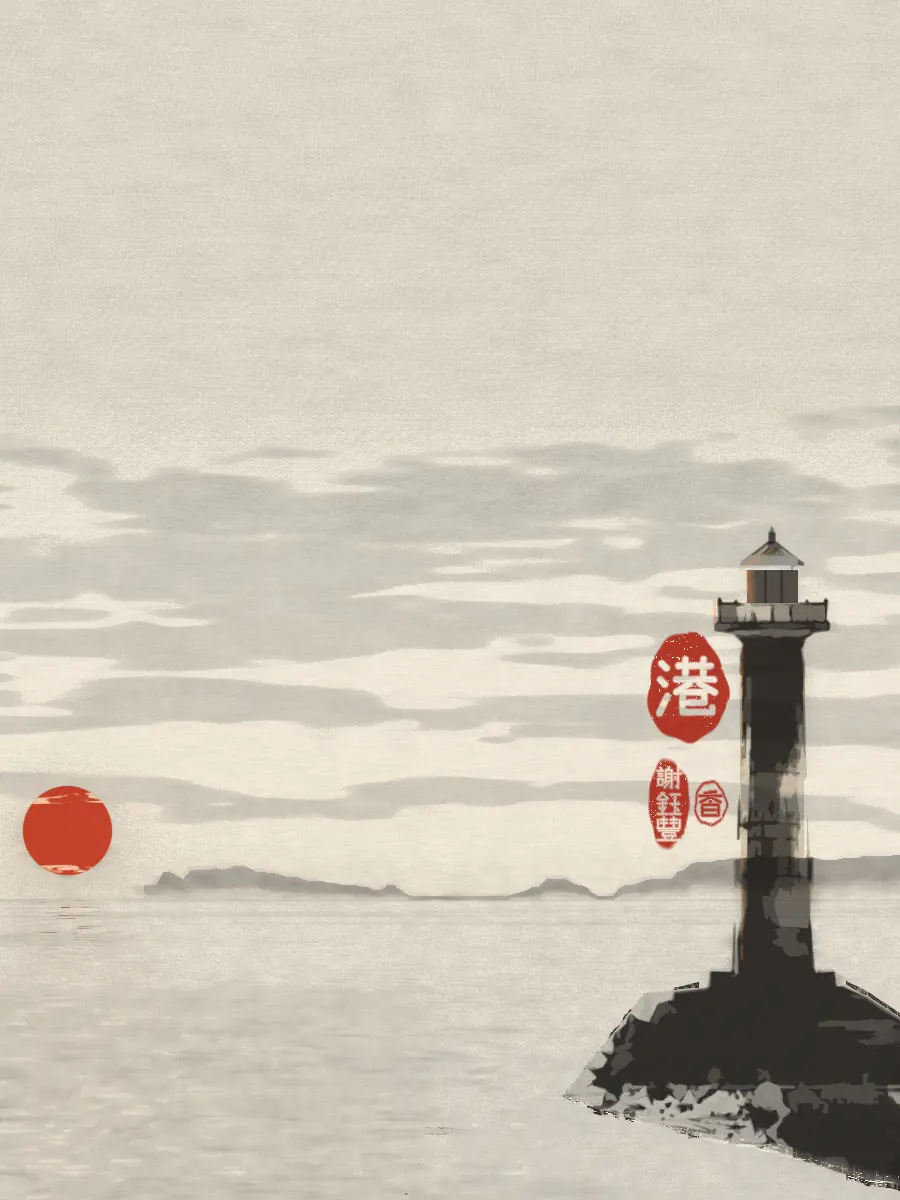
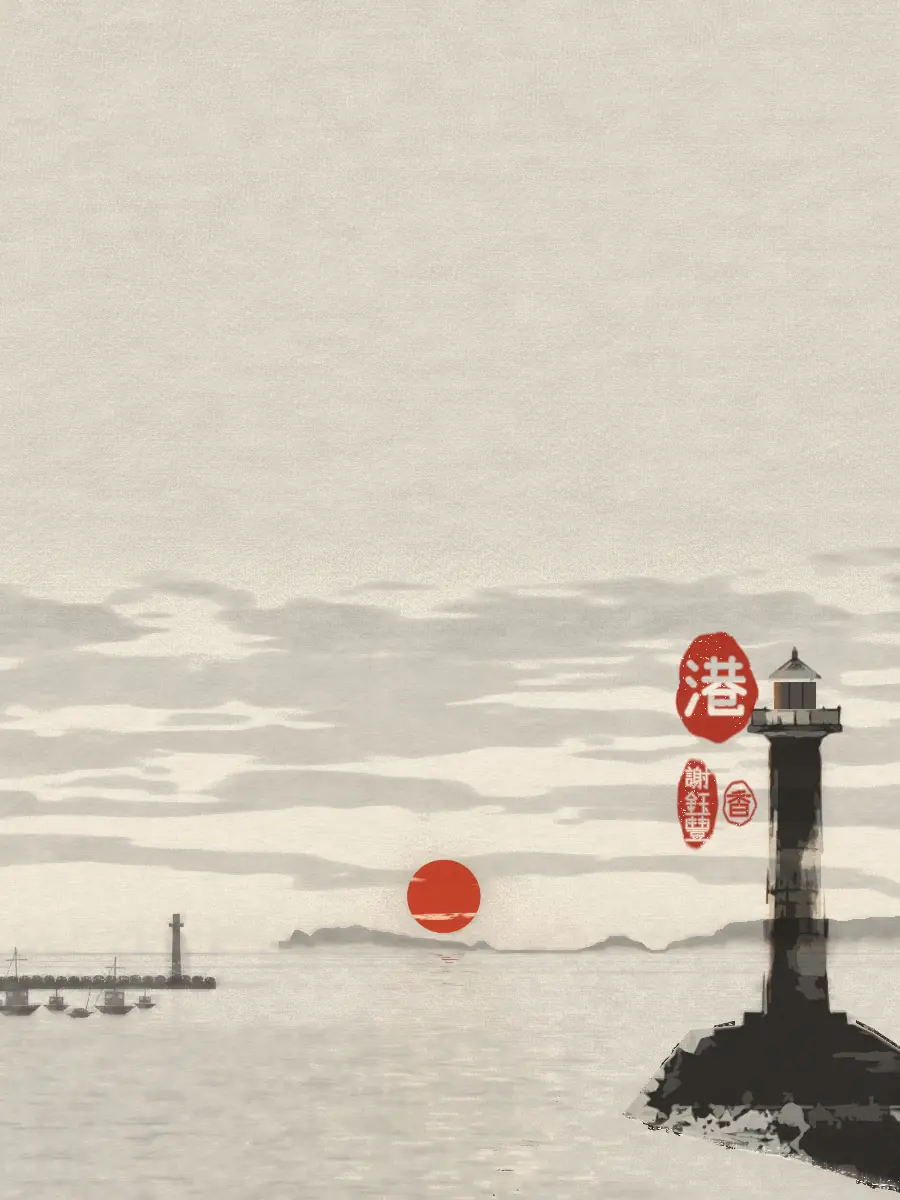
發布：墨景 03 更新（直式補左側港景與新封面）
Claude-Session: https://claude.ai/code/session_01VmVoAunAwoWo1nxic27BbQ

Changed region(s): [[0.0, 0.37, 1.0, 1.0], [0.6533, 0.37, 0.84, 0.4317], [0.2489, 0.4008, 0.3111, 0.4317]]

diff --git a/jieri/chunjie/index.html b/jieri/chunjie/index.html
@@ -19,7 +19,7 @@
 <meta property="og:image:width" content="1200">
 <meta property="og:image:height" content="630">
 <meta name="twitter:card" content="summary_large_image">
-<link rel="stylesheet" href="/assets/style.css?v=20261123a">
+<link rel="stylesheet" href="/assets/style.css?v=20261123b">
 </head>
 <body>
 <header class="top"><div class="wrap">
@@ -35,9 +35,9 @@
 
 <footer><div class="wrap" id="foot"><p><b style="color:var(--ink-2)">謝鈺豐香店</b>・新北市金山區中正路5號・電話 02-2498-7881・每日 07:00–20:00・付款：現金、台灣Pay</p><p>金紙不在多，心意最重要。</p><p>本站內容整理自民俗資料與店內經驗，僅供參考；各地習俗不同，請以在地慣例為準，也歡迎到店詢問。標「常見」的是一般常見做法，各地不一。</p><details><summary>參考來源</summary><ol><li><a href="https://dict.th.gov.tw/detailPage.aspx?Ca=291&amp;ID=1366" target="_blank" rel="noopener">臺灣民俗文物辭典：大壽金</a></li><li><a href="https://dict.th.gov.tw/detailPage.aspx?Ca=291&amp;ID=1361" target="_blank" rel="noopener">臺灣民俗文物辭典：天公金</a></li><li><a href="https://cmsdb.culture.tw/object/FEBF16D9-238F-44F6-8861-35F2FD40B2BE" target="_blank" rel="noopener">文化部 國家文化記憶庫：刈金與四方金</a></li><li><a href="https://sutian.moe.edu.tw/und-hani/su/8205/" target="_blank" rel="noopener">教育部臺灣台語常用詞辭典</a></li><li><a href="https://mso.gov.taipei/cp.aspx?n=B166D6A50A6D9E79" target="_blank" rel="noopener">臺北市殯葬管理處：祭祀供品釋疑</a></li><li><a href="https://www.tfunscroll.ntpc.gov.tw/TombSweepingFestival/ContentView?alias=Cht_O02&amp;id=802" target="_blank" rel="noopener">新北市清明服務網</a></li><li><a href="https://ianthro.ioe.sinica.edu.tw/wp-content/uploads/2018/05/etf025-001.pdf" target="_blank" rel="noopener">中研院民族所：金錢在華人文化與宗教中的觀念與儀式初探</a></li><li><a href="https://folk.tw/practices/ruocuo/" target="_blank" rel="noopener">神酷：入厝</a></li><li><a href="https://folk.tw/practices/sangli/" target="_blank" rel="noopener">神酷：傳統喪禮</a></li><li><a href="https://www.nownews.com/news/5627473" target="_blank" rel="noopener">NOWnews 保庇網：銀紙</a></li><li><a href="https://www.nownews.com/news/6362410" target="_blank" rel="noopener">NOWnews：初五迎財神拜法</a></li><li><a href="https://www.nownews.com/news/6814884" target="_blank" rel="noopener">NOWnews：拜媽祖供品</a></li><li><a href="https://supertaste.tvbs.com.tw/hot/353166" target="_blank" rel="noopener">TVBS：開工拜拜準備</a></li><li><a href="https://newtalk.tw/news/view/2022-05-16/755679" target="_blank" rel="noopener">新頭殼：金包里二媽回野柳媽祖洞</a></li><li><a href="https://udn.com/news/story/7268/9559983" target="_blank" rel="noopener">聯合新聞網：神農大帝聖誕</a></li><li><a href="https://tw.news.yahoo.com/tag/水仙尊王" target="_blank" rel="noopener">Yahoo 新聞：水仙尊王</a></li><li><a href="https://health.tvbs.com.tw/life/352227" target="_blank" rel="noopener">TVBS：拜土地公供品與金紙</a></li><li><a href="https://shopee.tw/blog/land-worship/" target="_blank" rel="noopener">蝦皮生活誌：拜土地公三色金</a></li><li><a href="https://travel.yam.com/article/136653" target="_blank" rel="noopener">蕃薯藤旅遊：拜財神供品</a></li><li><a href="https://health.tvbs.com.tw/nutrition/360367" target="_blank" rel="noopener">TVBS：財神廟參拜</a></li><li><a href="https://www.nownews.com/news/6786362" target="_blank" rel="noopener">NOWnews：拜月老步驟</a></li><li><a href="https://www.thenewslens.com/article/190536" target="_blank" rel="noopener">關鍵評論網：七夕拜月老供品</a></li><li><a href="https://www.thenewslens.com/article/147154" target="_blank" rel="noopener">關鍵評論網：紙錢整理</a></li></ol></details></div></footer>
 
-<script src="/assets/data.js?v=20261123a"></script>
-<script src="/assets/lunar.js?v=20261123a"></script>
-<script src="/assets/common.js?v=20261123a"></script>
-<script src="/assets/fest.js?v=20261123a"></script>
+<script src="/assets/data.js?v=20261123b"></script>
+<script src="/assets/lunar.js?v=20261123b"></script>
+<script src="/assets/common.js?v=20261123b"></script>
+<script src="/assets/fest.js?v=20261123b"></script>
 
 </body></html>

diff --git a/jieri/chuxi/index.html b/jieri/chuxi/index.html
@@ -19,7 +19,7 @@
 <meta property="og:image:width" content="1200">
 <meta property="og:image:height" content="630">
 <meta name="twitter:card" content="summary_large_image">
-<link rel="stylesheet" href="/assets/style.css?v=20261123a">
+<link rel="stylesheet" href="/assets/style.css?v=20261123b">
 </head>
 <body>
 <header class="top"><div class="wrap">
@@ -35,9 +35,9 @@
 
 <footer><div class="wrap" id="foot"><p><b style="color:var(--ink-2)">謝鈺豐香店</b>・新北市金山區中正路5號・電話 02-2498-7881・每日 07:00–20:00・付款：現金、台灣Pay</p><p>金紙不在多，心意最重要。</p><p>本站內容整理自民俗資料與店內經驗，僅供參考；各地習俗不同，請以在地慣例為準，也歡迎到店詢問。標「常見」的是一般常見做法，各地不一。</p><details><summary>參考來源</summary><ol><li><a href="https://dict.th.gov.tw/detailPage.aspx?Ca=291&amp;ID=1366" target="_blank" rel="noopener">臺灣民俗文物辭典：大壽金</a></li><li><a href="https://dict.th.gov.tw/detailPage.aspx?Ca=291&amp;ID=1361" target="_blank" rel="noopener">臺灣民俗文物辭典：天公金</a></li><li><a href="https://cmsdb.culture.tw/object/FEBF16D9-238F-44F6-8861-35F2FD40B2BE" target="_blank" rel="noopener">文化部 國家文化記憶庫：刈金與四方金</a></li><li><a href="https://sutian.moe.edu.tw/und-hani/su/8205/" target="_blank" rel="noopener">教育部臺灣台語常用詞辭典</a></li><li><a href="https://mso.gov.taipei/cp.aspx?n=B166D6A50A6D9E79" target="_blank" rel="noopener">臺北市殯葬管理處：祭祀供品釋疑</a></li><li><a href="https://www.tfunscroll.ntpc.gov.tw/TombSweepingFestival/ContentView?alias=Cht_O02&amp;id=802" target="_blank" rel="noopener">新北市清明服務網</a></li><li><a href="https://ianthro.ioe.sinica.edu.tw/wp-content/uploads/2018/05/etf025-001.pdf" target="_blank" rel="noopener">中研院民族所：金錢在華人文化與宗教中的觀念與儀式初探</a></li><li><a href="https://folk.tw/practices/ruocuo/" target="_blank" rel="noopener">神酷：入厝</a></li><li><a href="https://folk.tw/practices/sangli/" target="_blank" rel="noopener">神酷：傳統喪禮</a></li><li><a href="https://www.nownews.com/news/5627473" target="_blank" rel="noopener">NOWnews 保庇網：銀紙</a></li><li><a href="https://www.nownews.com/news/6362410" target="_blank" rel="noopener">NOWnews：初五迎財神拜法</a></li><li><a href="https://www.nownews.com/news/6814884" target="_blank" rel="noopener">NOWnews：拜媽祖供品</a></li><li><a href="https://supertaste.tvbs.com.tw/hot/353166" target="_blank" rel="noopener">TVBS：開工拜拜準備</a></li><li><a href="https://newtalk.tw/news/view/2022-05-16/755679" target="_blank" rel="noopener">新頭殼：金包里二媽回野柳媽祖洞</a></li><li><a href="https://udn.com/news/story/7268/9559983" target="_blank" rel="noopener">聯合新聞網：神農大帝聖誕</a></li><li><a href="https://tw.news.yahoo.com/tag/水仙尊王" target="_blank" rel="noopener">Yahoo 新聞：水仙尊王</a></li><li><a href="https://health.tvbs.com.tw/life/352227" target="_blank" rel="noopener">TVBS：拜土地公供品與金紙</a></li><li><a href="https://shopee.tw/blog/land-worship/" target="_blank" rel="noopener">蝦皮生活誌：拜土地公三色金</a></li><li><a href="https://travel.yam.com/article/136653" target="_blank" rel="noopener">蕃薯藤旅遊：拜財神供品</a></li><li><a href="https://health.tvbs.com.tw/nutrition/360367" target="_blank" rel="noopener">TVBS：財神廟參拜</a></li><li><a href="https://www.nownews.com/news/6786362" target="_blank" rel="noopener">NOWnews：拜月老步驟</a></li><li><a href="https://www.thenewslens.com/article/190536" target="_blank" rel="noopener">關鍵評論網：七夕拜月老供品</a></li><li><a href="https://www.thenewslens.com/article/147154" target="_blank" rel="noopener">關鍵評論網：紙錢整理</a></li></ol></details></div></footer>
 
-<script src="/assets/data.js?v=20261123a"></script>
-<script src="/assets/lunar.js?v=20261123a"></script>
-<script src="/assets/common.js?v=20261123a"></script>
-<script src="/assets/fest.js?v=20261123a"></script>
+<script src="/assets/data.js?v=20261123b"></script>
+<script src="/assets/lunar.js?v=20261123b"></script>
+<script src="/assets/common.js?v=20261123b"></script>
+<script src="/assets/fest.js?v=20261123b"></script>
 
 </body></html>

diff --git a/jieri/dongzhi/index.html b/jieri/dongzhi/index.html
@@ -19,7 +19,7 @@
 <meta property="og:image:width" content="1200">
 <meta property="og:image:height" content="630">
 <meta name="twitter:card" content="summary_large_image">
-<link rel="stylesheet" href="/assets/style.css?v=20261123a">
+<link rel="stylesheet" href="/assets/style.css?v=20261123b">
 </head>
 <body>
 <header class="top"><div class="wrap">
@@ -35,9 +35,9 @@
 
 <footer><div class="wrap" id="foot"><p><b style="color:var(--ink-2)">謝鈺豐香店</b>・新北市金山區中正路5號・電話 02-2498-7881・每日 07:00–20:00・付款：現金、台灣Pay</p><p>金紙不在多，心意最重要。</p><p>本站內容整理自民俗資料與店內經驗，僅供參考；各地習俗不同，請以在地慣例為準，也歡迎到店詢問。標「常見」的是一般常見做法，各地不一。</p><details><summary>參考來源</summary><ol><li><a href="https://dict.th.gov.tw/detailPage.aspx?Ca=291&amp;ID=1366" target="_blank" rel="noopener">臺灣民俗文物辭典：大壽金</a></li><li><a href="https://dict.th.gov.tw/detailPage.aspx?Ca=291&amp;ID=1361" target="_blank" rel="noopener">臺灣民俗文物辭典：天公金</a></li><li><a href="https://cmsdb.culture.tw/object/FEBF16D9-238F-44F6-8861-35F2FD40B2BE" target="_blank" rel="noopener">文化部 國家文化記憶庫：刈金與四方金</a></li><li><a href="https://sutian.moe.edu.tw/und-hani/su/8205/" target="_blank" rel="noopener">教育部臺灣台語常用詞辭典</a></li><li><a href="https://mso.gov.taipei/cp.aspx?n=B166D6A50A6D9E79" target="_blank" rel="noopener">臺北市殯葬管理處：祭祀供品釋疑</a></li><li><a href="https://www.tfunscroll.ntpc.gov.tw/TombSweepingFestival/ContentView?alias=Cht_O02&amp;id=802" target="_blank" rel="noopener">新北市清明服務網</a></li><li><a href="https://ianthro.ioe.sinica.edu.tw/wp-content/uploads/2018/05/etf025-001.pdf" target="_blank" rel="noopener">中研院民族所：金錢在華人文化與宗教中的觀念與儀式初探</a></li><li><a href="https://folk.tw/practices/ruocuo/" target="_blank" rel="noopener">神酷：入厝</a></li><li><a href="https://folk.tw/practices/sangli/" target="_blank" rel="noopener">神酷：傳統喪禮</a></li><li><a href="https://www.nownews.com/news/5627473" target="_blank" rel="noopener">NOWnews 保庇網：銀紙</a></li><li><a href="https://www.nownews.com/news/6362410" target="_blank" rel="noopener">NOWnews：初五迎財神拜法</a></li><li><a href="https://www.nownews.com/news/6814884" target="_blank" rel="noopener">NOWnews：拜媽祖供品</a></li><li><a href="https://supertaste.tvbs.com.tw/hot/353166" target="_blank" rel="noopener">TVBS：開工拜拜準備</a></li><li><a href="https://newtalk.tw/news/view/2022-05-16/755679" target="_blank" rel="noopener">新頭殼：金包里二媽回野柳媽祖洞</a></li><li><a href="https://udn.com/news/story/7268/9559983" target="_blank" rel="noopener">聯合新聞網：神農大帝聖誕</a></li><li><a href="https://tw.news.yahoo.com/tag/水仙尊王" target="_blank" rel="noopener">Yahoo 新聞：水仙尊王</a></li><li><a href="https://health.tvbs.com.tw/life/352227" target="_blank" rel="noopener">TVBS：拜土地公供品與金紙</a></li><li><a href="https://shopee.tw/blog/land-worship/" target="_blank" rel="noopener">蝦皮生活誌：拜土地公三色金</a></li><li><a href="https://travel.yam.com/article/136653" target="_blank" rel="noopener">蕃薯藤旅遊：拜財神供品</a></li><li><a href="https://health.tvbs.com.tw/nutrition/360367" target="_blank" rel="noopener">TVBS：財神廟參拜</a></li><li><a href="https://www.nownews.com/news/6786362" target="_blank" rel="noopener">NOWnews：拜月老步驟</a></li><li><a href="https://www.thenewslens.com/article/190536" target="_blank" rel="noopener">關鍵評論網：七夕拜月老供品</a></li><li><a href="https://www.thenewslens.com/article/147154" target="_blank" rel="noopener">關鍵評論網：紙錢整理</a></li></ol></details></div></footer>
 
-<script src="/assets/data.js?v=20261123a"></script>
-<script src="/assets/lunar.js?v=20261123a"></script>
-<script src="/assets/common.js?v=20261123a"></script>
-<script src="/assets/fest.js?v=20261123a"></script>
+<script src="/assets/data.js?v=20261123b"></script>
+<script src="/assets/lunar.js?v=20261123b"></script>
+<script src="/assets/common.js?v=20261123b"></script>
+<script src="/assets/fest.js?v=20261123b"></script>
 
 </body></html>

diff --git a/jieri/duanwu/index.html b/jieri/duanwu/index.html
@@ -19,7 +19,7 @@
 <meta property="og:image:width" content="1200">
 <meta property="og:image:height" content="630">
 <meta name="twitter:card" content="summary_large_image">
-<link rel="stylesheet" href="/assets/style.css?v=20261123a">
+<link rel="stylesheet" href="/assets/style.css?v=20261123b">
 </head>
 <body>
 <header class="top"><div class="wrap">
@@ -35,9 +35,9 @@
 
 <footer><div class="wrap" id="foot"><p><b style="color:var(--ink-2)">謝鈺豐香店</b>・新北市金山區中正路5號・電話 02-2498-7881・每日 07:00–20:00・付款：現金、台灣Pay</p><p>金紙不在多，心意最重要。</p><p>本站內容整理自民俗資料與店內經驗，僅供參考；各地習俗不同，請以在地慣例為準，也歡迎到店詢問。標「常見」的是一般常見做法，各地不一。</p><details><summary>參考來源</summary><ol><li><a href="https://dict.th.gov.tw/detailPage.aspx?Ca=291&amp;ID=1366" target="_blank" rel="noopener">臺灣民俗文物辭典：大壽金</a></li><li><a href="https://dict.th.gov.tw/detailPage.aspx?Ca=291&amp;ID=1361" target="_blank" rel="noopener">臺灣民俗文物辭典：天公金</a></li><li><a href="https://cmsdb.culture.tw/object/FEBF16D9-238F-44F6-8861-35F2FD40B2BE" target="_blank" rel="noopener">文化部 國家文化記憶庫：刈金與四方金</a></li><li><a href="https://sutian.moe.edu.tw/und-hani/su/8205/" target="_blank" rel="noopener">教育部臺灣台語常用詞辭典</a></li><li><a href="https://mso.gov.taipei/cp.aspx?n=B166D6A50A6D9E79" target="_blank" rel="noopener">臺北市殯葬管理處：祭祀供品釋疑</a></li><li><a href="https://www.tfunscroll.ntpc.gov.tw/TombSweepingFestival/ContentView?alias=Cht_O02&amp;id=802" target="_blank" rel="noopener">新北市清明服務網</a></li><li><a href="https://ianthro.ioe.sinica.edu.tw/wp-content/uploads/2018/05/etf025-001.pdf" target="_blank" rel="noopener">中研院民族所：金錢在華人文化與宗教中的觀念與儀式初探</a></li><li><a href="https://folk.tw/practices/ruocuo/" target="_blank" rel="noopener">神酷：入厝</a></li><li><a href="https://folk.tw/practices/sangli/" target="_blank" rel="noopener">神酷：傳統喪禮</a></li><li><a href="https://www.nownews.com/news/5627473" target="_blank" rel="noopener">NOWnews 保庇網：銀紙</a></li><li><a href="https://www.nownews.com/news/6362410" target="_blank" rel="noopener">NOWnews：初五迎財神拜法</a></li><li><a href="https://www.nownews.com/news/6814884" target="_blank" rel="noopener">NOWnews：拜媽祖供品</a></li><li><a href="https://supertaste.tvbs.com.tw/hot/353166" target="_blank" rel="noopener">TVBS：開工拜拜準備</a></li><li><a href="https://newtalk.tw/news/view/2022-05-16/755679" target="_blank" rel="noopener">新頭殼：金包里二媽回野柳媽祖洞</a></li><li><a href="https://udn.com/news/story/7268/9559983" target="_blank" rel="noopener">聯合新聞網：神農大帝聖誕</a></li><li><a href="https://tw.news.yahoo.com/tag/水仙尊王" target="_blank" rel="noopener">Yahoo 新聞：水仙尊王</a></li><li><a href="https://health.tvbs.com.tw/life/352227" target="_blank" rel="noopener">TVBS：拜土地公供品與金紙</a></li><li><a href="https://shopee.tw/blog/land-worship/" target="_blank" rel="noopener">蝦皮生活誌：拜土地公三色金</a></li><li><a href="https://travel.yam.com/article/136653" target="_blank" rel="noopener">蕃薯藤旅遊：拜財神供品</a></li><li><a href="https://health.tvbs.com.tw/nutrition/360367" target="_blank" rel="noopener">TVBS：財神廟參拜</a></li><li><a href="https://www.nownews.com/news/6786362" target="_blank" rel="noopener">NOWnews：拜月老步驟</a></li><li><a href="https://www.thenewslens.com/article/190536" target="_blank" rel="noopener">關鍵評論網：七夕拜月老供品</a></li><li><a href="https://www.thenewslens.com/article/147154" target="_blank" rel="noopener">關鍵評論網：紙錢整理</a></li></ol></details></div></footer>
 
-<script src="/assets/data.js?v=20261123a"></script>
-<script src="/assets/lunar.js?v=20261123a"></script>
-<script src="/assets/common.js?v=20261123a"></script>
-<script src="/assets/fest.js?v=20261123a"></script>
+<script src="/assets/data.js?v=20261123b"></script>
+<script src="/assets/lunar.js?v=20261123b"></script>
+<script src="/assets/common.js?v=20261123b"></script>
+<script src="/assets/fest.js?v=20261123b"></script>
 
 </body></html>

diff --git a/jieri/qingming/index.html b/jieri/qingming/index.html
@@ -19,7 +19,7 @@
 <meta property="og:image:width" content="1200">
 <meta property="og:image:height" content="630">
 <meta name="twitter:card" content="summary_large_image">
-<link rel="stylesheet" href="/assets/style.css?v=20261123a">
+<link rel="stylesheet" href="/assets/style.css?v=20261123b">
 </head>
 <body>
 <header class="top"><div class="wrap">
@@ -35,9 +35,9 @@
 
 <footer><div class="wrap" id="foot"><p><b style="color:var(--ink-2)">謝鈺豐香店</b>・新北市金山區中正路5號・電話 02-2498-7881・每日 07:00–20:00・付款：現金、台灣Pay</p><p>金紙不在多，心意最重要。</p><p>本站內容整理自民俗資料與店內經驗，僅供參考；各地習俗不同，請以在地慣例為準，也歡迎到店詢問。標「常見」的是一般常見做法，各地不一。</p><details><summary>參考來源</summary><ol><li><a href="https://dict.th.gov.tw/detailPage.aspx?Ca=291&amp;ID=1366" target="_blank" rel="noopener">臺灣民俗文物辭典：大壽金</a></li><li><a href="https://dict.th.gov.tw/detailPage.aspx?Ca=291&amp;ID=1361" target="_blank" rel="noopener">臺灣民俗文物辭典：天公金</a></li><li><a href="https://cmsdb.culture.tw/object/FEBF16D9-238F-44F6-8861-35F2FD40B2BE" target="_blank" rel="noopener">文化部 國家文化記憶庫：刈金與四方金</a></li><li><a href="https://sutian.moe.edu.tw/und-hani/su/8205/" target="_blank" rel="noopener">教育部臺灣台語常用詞辭典</a></li><li><a href="https://mso.gov.taipei/cp.aspx?n=B166D6A50A6D9E79" target="_blank" rel="noopener">臺北市殯葬管理處：祭祀供品釋疑</a></li><li><a href="https://www.tfunscroll.ntpc.gov.tw/TombSweepingFestival/ContentView?alias=Cht_O02&amp;id=802" target="_blank" rel="noopener">新北市清明服務網</a></li><li><a href="https://ianthro.ioe.sinica.edu.tw/wp-content/uploads/2018/05/etf025-001.pdf" target="_blank" rel="noopener">中研院民族所：金錢在華人文化與宗教中的觀念與儀式初探</a></li><li><a href="https://folk.tw/practices/ruocuo/" target="_blank" rel="noopener">神酷：入厝</a></li><li><a href="https://folk.tw/practices/sangli/" target="_blank" rel="noopener">神酷：傳統喪禮</a></li><li><a href="https://www.nownews.com/news/5627473" target="_blank" rel="noopener">NOWnews 保庇網：銀紙</a></li><li><a href="https://www.nownews.com/news/6362410" target="_blank" rel="noopener">NOWnews：初五迎財神拜法</a></li><li><a href="https://www.nownews.com/news/6814884" target="_blank" rel="noopener">NOWnews：拜媽祖供品</a></li><li><a href="https://supertaste.tvbs.com.tw/hot/353166" target="_blank" rel="noopener">TVBS：開工拜拜準備</a></li><li><a href="https://newtalk.tw/news/view/2022-05-16/755679" target="_blank" rel="noopener">新頭殼：金包里二媽回野柳媽祖洞</a></li><li><a href="https://udn.com/news/story/7268/9559983" target="_blank" rel="noopener">聯合新聞網：神農大帝聖誕</a></li><li><a href="https://tw.news.yahoo.com/tag/水仙尊王" target="_blank" rel="noopener">Yahoo 新聞：水仙尊王</a></li><li><a href="https://health.tvbs.com.tw/life/352227" target="_blank" rel="noopener">TVBS：拜土地公供品與金紙</a></li><li><a href="https://shopee.tw/blog/land-worship/" target="_blank" rel="noopener">蝦皮生活誌：拜土地公三色金</a></li><li><a href="https://travel.yam.com/article/136653" target="_blank" rel="noopener">蕃薯藤旅遊：拜財神供品</a></li><li><a href="https://health.tvbs.com.tw/nutrition/360367" target="_blank" rel="noopener">TVBS：財神廟參拜</a></li><li><a href="https://www.nownews.com/news/6786362" target="_blank" rel="noopener">NOWnews：拜月老步驟</a></li><li><a href="https://www.thenewslens.com/article/190536" target="_blank" rel="noopener">關鍵評論網：七夕拜月老供品</a></li><li><a href="https://www.thenewslens.com/article/147154" target="_blank" rel="noopener">關鍵評論網：紙錢整理</a></li></ol></details></div></footer>
 
-<script src="/assets/data.js?v=20261123a"></script>
-<script src="/assets/lunar.js?v=20261123a"></script>
-<script src="/assets/common.js?v=20261123a"></script>
-<script src="/assets/fest.js?v=20261123a"></script>
+<script src="/assets/data.js?v=20261123b"></script>
+<script src="/assets/lunar.js?v=20261123b"></script>
+<script src="/assets/common.js?v=20261123b"></script>
+<script src="/assets/fest.js?v=20261123b"></script>
 
 </body></html>

diff --git a/jieri/qixi/index.html b/jieri/qixi/index.html
@@ -19,7 +19,7 @@
 <meta property="og:image:width" content="1200">
 <meta property="og:image:height" content="630">
 <meta name="twitter:card" content="summary_large_image">
-<link rel="stylesheet" href="/assets/style.css?v=20261123a">
+<link rel="stylesheet" href="/assets/style.css?v=20261123b">
 </head>
 <body>
 <header class="top"><div class="wrap">
@@ -35,9 +35,9 @@
 
 <footer><div class="wrap" id="foot"><p><b style="color:var(--ink-2)">謝鈺豐香店</b>・新北市金山區中正路5號・電話 02-2498-7881・每日 07:00–20:00・付款：現金、台灣Pay</p><p>金紙不在多，心意最重要。</p><p>本站內容整理自民俗資料與店內經驗，僅供參考；各地習俗不同，請以在地慣例為準，也歡迎到店詢問。標「常見」的是一般常見做法，各地不一。</p><details><summary>參考來源</summary><ol><li><a href="https://dict.th.gov.tw/detailPage.aspx?Ca=291&amp;ID=1366" target="_blank" rel="noopener">臺灣民俗文物辭典：大壽金</a></li><li><a href="https://dict.th.gov.tw/detailPage.aspx?Ca=291&amp;ID=1361" target="_blank" rel="noopener">臺灣民俗文物辭典：天公金</a></li><li><a href="https://cmsdb.culture.tw/object/FEBF16D9-238F-44F6-8861-35F2FD40B2BE" target="_blank" rel="noopener">文化部 國家文化記憶庫：刈金與四方金</a></li><li><a href="https://sutian.moe.edu.tw/und-hani/su/8205/" target="_blank" rel="noopener">教育部臺灣台語常用詞辭典</a></li><li><a href="https://mso.gov.taipei/cp.aspx?n=B166D6A50A6D9E79" target="_blank" rel="noopener">臺北市殯葬管理處：祭祀供品釋疑</a></li><li><a href="https://www.tfunscroll.ntpc.gov.tw/TombSweepingFestival/ContentView?alias=Cht_O02&amp;id=802" target="_blank" rel="noopener">新北市清明服務網</a></li><li><a href="https://ianthro.ioe.sinica.edu.tw/wp-content/uploads/2018/05/etf025-001.pdf" target="_blank" rel="noopener">中研院民族所：金錢在華人文化與宗教中的觀念與儀式初探</a></li><li><a href="https://folk.tw/practices/ruocuo/" target="_blank" rel="noopener">神酷：入厝</a></li><li><a href="https://folk.tw/practices/sangli/" target="_blank" rel="noopener">神酷：傳統喪禮</a></li><li><a href="https://www.nownews.com/news/5627473" target="_blank" rel="noopener">NOWnews 保庇網：銀紙</a></li><li><a href="https://www.nownews.com/news/6362410" target="_blank" rel="noopener">NOWnews：初五迎財神拜法</a></li><li><a href="https://www.nownews.com/news/6814884" target="_blank" rel="noopener">NOWnews：拜媽祖供品</a></li><li><a href="https://supertaste.tvbs.com.tw/hot/353166" target="_blank" rel="noopener">TVBS：開工拜拜準備</a></li><li><a href="https://newtalk.tw/news/view/2022-05-16/755679" target="_blank" rel="noopener">新頭殼：金包里二媽回野柳媽祖洞</a></li><li><a href="https://udn.com/news/story/7268/9559983" target="_blank" rel="noopener">聯合新聞網：神農大帝聖誕</a></li><li><a href="https://tw.news.yahoo.com/tag/水仙尊王" target="_blank" rel="noopener">Yahoo 新聞：水仙尊王</a></li><li><a href="https://health.tvbs.com.tw/life/352227" target="_blank" rel="noopener">TVBS：拜土地公供品與金紙</a></li><li><a href="https://shopee.tw/blog/land-worship/" target="_blank" rel="noopener">蝦皮生活誌：拜土地公三色金</a></li><li><a href="https://travel.yam.com/article/136653" target="_blank" rel="noopener">蕃薯藤旅遊：拜財神供品</a></li><li><a href="https://health.tvbs.com.tw/nutrition/360367" target="_blank" rel="noopener">TVBS：財神廟參拜</a></li><li><a href="https://www.nownews.com/news/6786362" target="_blank" rel="noopener">NOWnews：拜月老步驟</a></li><li><a href="https://www.thenewslens.com/article/190536" target="_blank" rel="noopener">關鍵評論網：七夕拜月老供品</a></li><li><a href="https://www.thenewslens.com/article/147154" target="_blank" rel="noopener">關鍵評論網：紙錢整理</a></li></ol></details></div></footer>
 
-<script src="/assets/data.js?v=20261123a"></script>
-<script src="/assets/lunar.js?v=20261123a"></script>
-<script src="/assets/common.js?v=20261123a"></script>
-<script src="/assets/fest.js?v=20261123a"></script>
+<script src="/assets/data.js?v=20261123b"></script>
+<script src="/assets/lunar.js?v=20261123b"></script>
+<script src="/assets/common.js?v=20261123b"></script>
+<script src="/assets/fest.js?v=20261123b"></script>
 
 </body></html>

diff --git a/jieri/tiangong/index.html b/jieri/tiangong/index.html
@@ -19,7 +19,7 @@
 <meta property="og:image:width" content="1200">
 <meta property="og:image:height" content="630">
 <meta name="twitter:card" content="summary_large_image">
-<link rel="stylesheet" href="/assets/style.css?v=20261123a">
+<link rel="stylesheet" href="/assets/style.css?v=20261123b">
 </head>
 <body>
 <header class="top"><div class="wrap">
@@ -35,9 +35,9 @@
 
 <footer><div class="wrap" id="foot"><p><b style="color:var(--ink-2)">謝鈺豐香店</b>・新北市金山區中正路5號・電話 02-2498-7881・每日 07:00–20:00・付款：現金、台灣Pay</p><p>金紙不在多，心意最重要。</p><p>本站內容整理自民俗資料與店內經驗，僅供參考；各地習俗不同，請以在地慣例為準，也歡迎到店詢問。標「常見」的是一般常見做法，各地不一。</p><details><summary>參考來源</summary><ol><li><a href="https://dict.th.gov.tw/detailPage.aspx?Ca=291&amp;ID=1366" target="_blank" rel="noopener">臺灣民俗文物辭典：大壽金</a></li><li><a href="https://dict.th.gov.tw/detailPage.aspx?Ca=291&amp;ID=1361" target="_blank" rel="noopener">臺灣民俗文物辭典：天公金</a></li><li><a href="https://cmsdb.culture.tw/object/FEBF16D9-238F-44F6-8861-35F2FD40B2BE" target="_blank" rel="noopener">文化部 國家文化記憶庫：刈金與四方金</a></li><li><a href="https://sutian.moe.edu.tw/und-hani/su/8205/" target="_blank" rel="noopener">教育部臺灣台語常用詞辭典</a></li><li><a href="https://mso.gov.taipei/cp.aspx?n=B166D6A50A6D9E79" target="_blank" rel="noopener">臺北市殯葬管理處：祭祀供品釋疑</a></li><li><a href="https://www.tfunscroll.ntpc.gov.tw/TombSweepingFestival/ContentView?alias=Cht_O02&amp;id=802" target="_blank" rel="noopener">新北市清明服務網</a></li><li><a href="https://ianthro.ioe.sinica.edu.tw/wp-content/uploads/2018/05/etf025-001.pdf" target="_blank" rel="noopener">中研院民族所：金錢在華人文化與宗教中的觀念與儀式初探</a></li><li><a href="https://folk.tw/practices/ruocuo/" target="_blank" rel="noopener">神酷：入厝</a></li><li><a href="https://folk.tw/practices/sangli/" target="_blank" rel="noopener">神酷：傳統喪禮</a></li><li><a href="https://www.nownews.com/news/5627473" target="_blank" rel="noopener">NOWnews 保庇網：銀紙</a></li><li><a href="https://www.nownews.com/news/6362410" target="_blank" rel="noopener">NOWnews：初五迎財神拜法</a></li><li><a href="https://www.nownews.com/news/6814884" target="_blank" rel="noopener">NOWnews：拜媽祖供品</a></li><li><a href="https://supertaste.tvbs.com.tw/hot/353166" target="_blank" rel="noopener">TVBS：開工拜拜準備</a></li><li><a href="https://newtalk.tw/news/view/2022-05-16/755679" target="_blank" rel="noopener">新頭殼：金包里二媽回野柳媽祖洞</a></li><li><a href="https://udn.com/news/story/7268/9559983" target="_blank" rel="noopener">聯合新聞網：神農大帝聖誕</a></li><li><a href="https://tw.news.yahoo.com/tag/水仙尊王" target="_blank" rel="noopener">Yahoo 新聞：水仙尊王</a></li><li><a href="https://health.tvbs.com.tw/life/352227" target="_blank" rel="noopener">TVBS：拜土地公供品與金紙</a></li><li><a href="https://shopee.tw/blog/land-worship/" target="_blank" rel="noopener">蝦皮生活誌：拜土地公三色金</a></li><li><a href="https://travel.yam.com/article/136653" target="_blank" rel="noopener">蕃薯藤旅遊：拜財神供品</a></li><li><a href="https://health.tvbs.com.tw/nutrition/360367" target="_blank" rel="noopener">TVBS：財神廟參拜</a></li><li><a href="https://www.nownews.com/news/6786362" target="_blank" rel="noopener">NOWnews：拜月老步驟</a></li><li><a href="https://www.thenewslens.com/article/190536" target="_blank" rel="noopener">關鍵評論網：七夕拜月老供品</a></li><li><a href="https://www.thenewslens.com/article/147154" target="_blank" rel="noopener">關鍵評論網：紙錢整理</a></li></ol></details></div></footer>
 
-<script src="/assets/data.js?v=20261123a"></script>
-<script src="/assets/lunar.js?v=20261123a"></script>
-<script src="/assets/common.js?v=20261123a"></script>
-<script src="/assets/fest.js?v=20261123a"></script>
+<script src="/assets/data.js?v=20261123b"></script>
+<script src="/assets/lunar.js?v=20261123b"></script>
+<script src="/assets/common.js?v=20261123b"></script>
+<script src="/assets/fest.js?v=20261123b"></script>
 
 </body></html>

diff --git a/jieri/weiya/index.html b/jieri/weiya/index.html
@@ -19,7 +19,7 @@
 <meta property="og:image:width" content="1200">
 <meta property="og:image:height" content="630">
 <meta name="twitter:card" content="summary_large_image">
-<link rel="stylesheet" href="/assets/style.css?v=20261123a">
+<link rel="stylesheet" href="/assets/style.css?v=20261123b">
 </head>
 <body>
 <header class="top"><div class="wrap">
@@ -35,9 +35,9 @@
 
 <footer><div class="wrap" id="foot"><p><b style="color:var(--ink-2)">謝鈺豐香店</b>・新北市金山區中正路5號・電話 02-2498-7881・每日 07:00–20:00・付款：現金、台灣Pay</p><p>金紙不在多，心意最重要。</p><p>本站內容整理自民俗資料與店內經驗，僅供參考；各地習俗不同，請以在地慣例為準，也歡迎到店詢問。標「常見」的是一般常見做法，各地不一。</p><details><summary>參考來源</summary><ol><li><a href="https://dict.th.gov.tw/detailPage.aspx?Ca=291&amp;ID=1366" target="_blank" rel="noopener">臺灣民俗文物辭典：大壽金</a></li><li><a href="https://dict.th.gov.tw/detailPage.aspx?Ca=291&amp;ID=1361" target="_blank" rel="noopener">臺灣民俗文物辭典：天公金</a></li><li><a href="https://cmsdb.culture.tw/object/FEBF16D9-238F-44F6-8861-35F2FD40B2BE" target="_blank" rel="noopener">文化部 國家文化記憶庫：刈金與四方金</a></li><li><a href="https://sutian.moe.edu.tw/und-hani/su/8205/" target="_blank" rel="noopener">教育部臺灣台語常用詞辭典</a></li><li><a href="https://mso.gov.taipei/cp.aspx?n=B166D6A50A6D9E79" target="_blank" rel="noopener">臺北市殯葬管理處：祭祀供品釋疑</a></li><li><a href="https://www.tfunscroll.ntpc.gov.tw/TombSweepingFestival/ContentView?alias=Cht_O02&amp;id=802" target="_blank" rel="noopener">新北市清明服務網</a></li><li><a href="https://ianthro.ioe.sinica.edu.tw/wp-content/uploads/2018/05/etf025-001.pdf" target="_blank" rel="noopener">中研院民族所：金錢在華人文化與宗教中的觀念與儀式初探</a></li><li><a href="https://folk.tw/practices/ruocuo/" target="_blank" rel="noopener">神酷：入厝</a></li><li><a href="https://folk.tw/practices/sangli/" target="_blank" rel="noopener">神酷：傳統喪禮</a></li><li><a href="https://www.nownews.com/news/5627473" target="_blank" rel="noopener">NOWnews 保庇網：銀紙</a></li><li><a href="https://www.nownews.com/news/6362410" target="_blank" rel="noopener">NOWnews：初五迎財神拜法</a></li><li><a href="https://www.nownews.com/news/6814884" target="_blank" rel="noopener">NOWnews：拜媽祖供品</a></li><li><a href="https://supertaste.tvbs.com.tw/hot/353166" target="_blank" rel="noopener">TVBS：開工拜拜準備</a></li><li><a href="https://newtalk.tw/news/view/2022-05-16/755679" target="_blank" rel="noopener">新頭殼：金包里二媽回野柳媽祖洞</a></li><li><a href="https://udn.com/news/story/7268/9559983" target="_blank" rel="noopener">聯合新聞網：神農大帝聖誕</a></li><li><a href="https://tw.news.yahoo.com/tag/水仙尊王" target="_blank" rel="noopener">Yahoo 新聞：水仙尊王</a></li><li><a href="https://health.tvbs.com.tw/life/352227" target="_blank" rel="noopener">TVBS：拜土地公供品與金紙</a></li><li><a href="https://shopee.tw/blog/land-worship/" target="_blank" rel="noopener">蝦皮生活誌：拜土地公三色金</a></li><li><a href="https://travel.yam.com/article/136653" target="_blank" rel="noopener">蕃薯藤旅遊：拜財神供品</a></li><li><a href="https://health.tvbs.com.tw/nutrition/360367" target="_blank" rel="noopener">TVBS：財神廟參拜</a></li><li><a href="https://www.nownews.com/news/6786362" target="_blank" rel="noopener">NOWnews：拜月老步驟</a></li><li><a href="https://www.thenewslens.com/article/190536" target="_blank" rel="noopener">關鍵評論網：七夕拜月老供品</a></li><li><a href="https://www.thenewslens.com/article/147154" target="_blank" rel="noopener">關鍵評論網：紙錢整理</a></li></ol></details></div></footer>
 
-<script src="/assets/data.js?v=20261123a"></script>
-<script src="/assets/lunar.js?v=20261123a"></script>
-<script src="/assets/common.js?v=20261123a"></script>
-<script src="/assets/fest.js?v=20261123a"></script>
+<script src="/assets/data.js?v=20261123b"></script>
+<script src="/assets/lunar.js?v=20261123b"></script>
+<script src="/assets/common.js?v=20261123b"></script>
+<script src="/assets/fest.js?v=20261123b"></script>
 
 </body></html>

diff --git a/jieri/zhongqiu/index.html b/jieri/zhongqiu/index.html
@@ -19,7 +19,7 @@
 <meta property="og:image:width" content="1200">
 <meta property="og:image:height" content="630">
 <meta name="twitter:card" content="summary_large_image">
-<link rel="stylesheet" href="/assets/style.css?v=20261123a">
+<link rel="stylesheet" href="/assets/style.css?v=20261123b">
 </head>
 <body>
 <header class="top"><div class="wrap">
@@ -35,9 +35,9 @@
 
 <footer><div class="wrap" id="foot"><p><b style="color:var(--ink-2)">謝鈺豐香店</b>・新北市金山區中正路5號・電話 02-2498-7881・每日 07:00–20:00・付款：現金、台灣Pay</p><p>金紙不在多，心意最重要。</p><p>本站內容整理自民俗資料與店內經驗，僅供參考；各地習俗不同，請以在地慣例為準，也歡迎到店詢問。標「常見」的是一般常見做法，各地不一。</p><details><summary>參考來源</summary><ol><li><a href="https://dict.th.gov.tw/detailPage.aspx?Ca=291&amp;ID=1366" target="_blank" rel="noopener">臺灣民俗文物辭典：大壽金</a></li><li><a href="https://dict.th.gov.tw/detailPage.aspx?Ca=291&amp;ID=1361" target="_blank" rel="noopener">臺灣民俗文物辭典：天公金</a></li><li><a href="https://cmsdb.culture.tw/object/FEBF16D9-238F-44F6-8861-35F2FD40B2BE" target="_blank" rel="noopener">文化部 國家文化記憶庫：刈金與四方金</a></li><li><a href="https://sutian.moe.edu.tw/und-hani/su/8205/" target="_blank" rel="noopener">教育部臺灣台語常用詞辭典</a></li><li><a href="https://mso.gov.taipei/cp.aspx?n=B166D6A50A6D9E79" target="_blank" rel="noopener">臺北市殯葬管理處：祭祀供品釋疑</a></li><li><a href="https://www.tfunscroll.ntpc.gov.tw/TombSweepingFestival/ContentView?alias=Cht_O02&amp;id=802" target="_blank" rel="noopener">新北市清明服務網</a></li><li><a href="https://ianthro.ioe.sinica.edu.tw/wp-content/uploads/2018/05/etf025-001.pdf" target="_blank" rel="noopener">中研院民族所：金錢在華人文化與宗教中的觀念與儀式初探</a></li><li><a href="https://folk.tw/practices/ruocuo/" target="_blank" rel="noopener">神酷：入厝</a></li><li><a href="https://folk.tw/practices/sangli/" target="_blank" rel="noopener">神酷：傳統喪禮</a></li><li><a href="https://www.nownews.com/news/5627473" target="_blank" rel="noopener">NOWnews 保庇網：銀紙</a></li><li><a href="https://www.nownews.com/news/6362410" target="_blank" rel="noopener">NOWnews：初五迎財神拜法</a></li><li><a href="https://www.nownews.com/news/6814884" target="_blank" rel="noopener">NOWnews：拜媽祖供品</a></li><li><a href="https://supertaste.tvbs.com.tw/hot/353166" target="_blank" rel="noopener">TVBS：開工拜拜準備</a></li><li><a href="https://newtalk.tw/news/view/2022-05-16/755679" target="_blank" rel="noopener">新頭殼：金包里二媽回野柳媽祖洞</a></li><li><a href="https://udn.com/news/story/7268/9559983" target="_blank" rel="noopener">聯合新聞網：神農大帝聖誕</a></li><li><a href="https://tw.news.yahoo.com/tag/水仙尊王" target="_blank" rel="noopener">Yahoo 新聞：水仙尊王</a></li><li><a href="https://health.tvbs.com.tw/life/352227" target="_blank" rel="noopener">TVBS：拜土地公供品與金紙</a></li><li><a href="https://shopee.tw/blog/land-worship/" target="_blank" rel="noopener">蝦皮生活誌：拜土地公三色金</a></li><li><a href="https://travel.yam.com/article/136653" target="_blank" rel="noopener">蕃薯藤旅遊：拜財神供品</a></li><li><a href="https://health.tvbs.com.tw/nutrition/360367" target="_blank" rel="noopener">TVBS：財神廟參拜</a></li><li><a href="https://www.nownews.com/news/6786362" target="_blank" rel="noopener">NOWnews：拜月老步驟</a></li><li><a href="https://www.thenewslens.com/article/190536" target="_blank" rel="noopener">關鍵評論網：七夕拜月老供品</a></li><li><a href="https://www.thenewslens.com/article/147154" target="_blank" rel="noopener">關鍵評論網：紙錢整理</a></li></ol></details></div></footer>
 
-<script src="/assets/data.js?v=20261123a"></script>
-<script src="/assets/lunar.js?v=20261123a"></script>
-<script src="/assets/common.js?v=20261123a"></script>
-<script src="/assets/fest.js?v=20261123a"></script>
+<script src="/assets/data.js?v=20261123b"></script>
+<script src="/assets/lunar.js?v=20261123b"></script>
+<script src="/assets/common.js?v=20261123b"></script>
+<script src="/assets/fest.js?v=20261123b"></script>
 
 </body></html>

diff --git a/jieri/zhongyuan/index.html b/jieri/zhongyuan/index.html
@@ -19,7 +19,7 @@
 <meta property="og:image:width" content="1200">
 <meta property="og:image:height" content="630">
 <meta name="twitter:card" content="summary_large_image">
-<link rel="stylesheet" href="/assets/style.css?v=20261123a">
+<link rel="stylesheet" href="/assets/style.css?v=20261123b">
 </head>
 <body>
 <header class="top"><div class="wrap">
@@ -35,9 +35,9 @@
 
 <footer><div class="wrap" id="foot"><p><b style="color:var(--ink-2)">謝鈺豐香店</b>・新北市金山區中正路5號・電話 02-2498-7881・每日 07:00–20:00・付款：現金、台灣Pay</p><p>金紙不在多，心意最重要。</p><p>本站內容整理自民俗資料與店內經驗，僅供參考；各地習俗不同，請以在地慣例為準，也歡迎到店詢問。標「常見」的是一般常見做法，各地不一。</p><details><summary>參考來源</summary><ol><li><a href="https://dict.th.gov.tw/detailPage.aspx?Ca=291&amp;ID=1366" target="_blank" rel="noopener">臺灣民俗文物辭典：大壽金</a></li><li><a href="https://dict.th.gov.tw/detailPage.aspx?Ca=291&amp;ID=1361" target="_blank" rel="noopener">臺灣民俗文物辭典：天公金</a></li><li><a href="https://cmsdb.culture.tw/object/FEBF16D9-238F-44F6-8861-35F2FD40B2BE" target="_blank" rel="noopener">文化部 國家文化記憶庫：刈金與四方金</a></li><li><a href="https://sutian.moe.edu.tw/und-hani/su/8205/" target="_blank" rel="noopener">教育部臺灣台語常用詞辭典</a></li><li><a href="https://mso.gov.taipei/cp.aspx?n=B166D6A50A6D9E79" target="_blank" rel="noopener">臺北市殯葬管理處：祭祀供品釋疑</a></li><li><a href="https://www.tfunscroll.ntpc.gov.tw/TombSweepingFestival/ContentView?alias=Cht_O02&amp;id=802" target="_blank" rel="noopener">新北市清明服務網</a></li><li><a href="https://ianthro.ioe.sinica.edu.tw/wp-content/uploads/2018/05/etf025-001.pdf" target="_blank" rel="noopener">中研院民族所：金錢在華人文化與宗教中的觀念與儀式初探</a></li><li><a href="https://folk.tw/practices/ruocuo/" target="_blank" rel="noopener">神酷：入厝</a></li><li><a href="https://folk.tw/practices/sangli/" target="_blank" rel="noopener">神酷：傳統喪禮</a></li><li><a href="https://www.nownews.com/news/5627473" target="_blank" rel="noopener">NOWnews 保庇網：銀紙</a></li><li><a href="https://www.nownews.com/news/6362410" target="_blank" rel="noopener">NOWnews：初五迎財神拜法</a></li><li><a href="https://www.nownews.com/news/6814884" target="_blank" rel="noopener">NOWnews：拜媽祖供品</a></li><li><a href="https://supertaste.tvbs.com.tw/hot/353166" target="_blank" rel="noopener">TVBS：開工拜拜準備</a></li><li><a href="https://newtalk.tw/news/view/2022-05-16/755679" target="_blank" rel="noopener">新頭殼：金包里二媽回野柳媽祖洞</a></li><li><a href="https://udn.com/news/story/7268/9559983" target="_blank" rel="noopener">聯合新聞網：神農大帝聖誕</a></li><li><a href="https://tw.news.yahoo.com/tag/水仙尊王" target="_blank" rel="noopener">Yahoo 新聞：水仙尊王</a></li><li><a href="https://health.tvbs.com.tw/life/352227" target="_blank" rel="noopener">TVBS：拜土地公供品與金紙</a></li><li><a href="https://shopee.tw/blog/land-worship/" target="_blank" rel="noopener">蝦皮生活誌：拜土地公三色金</a></li><li><a href="https://travel.yam.com/article/136653" target="_blank" rel="noopener">蕃薯藤旅遊：拜財神供品</a></li><li><a href="https://health.tvbs.com.tw/nutrition/360367" target="_blank" rel="noopener">TVBS：財神廟參拜</a></li><li><a href="https://www.nownews.com/news/6786362" target="_blank" rel="noopener">NOWnews：拜月老步驟</a></li><li><a href="https://www.thenewslens.com/article/190536" target="_blank" rel="noopener">關鍵評論網：七夕拜月老供品</a></li><li><a href="https://www.thenewslens.com/article/147154" target="_blank" rel="noopener">關鍵評論網：紙錢整理</a></li></ol></details></div></footer>
 
-<script src="/assets/data.js?v=20261123a"></script>
-<script src="/assets/lunar.js?v=20261123a"></script>
-<script src="/assets/common.js?v=20261123a"></script>
-<script src="/assets/fest.js?v=20261123a"></script>
+<script src="/assets/data.js?v=20261123b"></script>
+<script src="/assets/lunar.js?v=20261123b"></script>
+<script src="/assets/common.js?v=20261123b"></script>
+<script src="/assets/fest.js?v=20261123b"></script>
 
 </body></html>

diff --git a/jieri/index.html b/jieri/index.html
@@ -19,7 +19,7 @@
 <meta property="og:image:width" content="1200">
 <meta property="og:image:height" content="630">
 <meta name="twitter:card" content="summary_large_image">
-<link rel="stylesheet" href="/assets/style.css?v=20261123a">
+<link rel="stylesheet" href="/assets/style.css?v=20261123b">
 </head>
 <body>
 <header class="top"><div class="wrap">
@@ -82,9 +82,9 @@
 
 <footer><div class="wrap" id="foot"><p><b style="color:var(--ink-2)">謝鈺豐香店</b>・新北市金山區中正路5號・電話 02-2498-7881・每日 07:00–20:00・付款：現金、台灣Pay</p><p>金紙不在多，心意最重要。</p><p>本站內容整理自民俗資料與店內經驗，僅供參考；各地習俗不同，請以在地慣例為準，也歡迎到店詢問。標「常見」的是一般常見做法，各地不一。</p><details><summary>參考來源</summary><ol><li><a href="https://dict.th.gov.tw/detailPage.aspx?Ca=291&amp;ID=1366" target="_blank" rel="noopener">臺灣民俗文物辭典：大壽金</a></li><li><a href="https://dict.th.gov.tw/detailPage.aspx?Ca=291&amp;ID=1361" target="_blank" rel="noopener">臺灣民俗文物辭典：天公金</a></li><li><a href="https://cmsdb.culture.tw/object/FEBF16D9-238F-44F6-8861-35F2FD40B2BE" target="_blank" rel="noopener">文化部 國家文化記憶庫：刈金與四方金</a></li><li><a href="https://sutian.moe.edu.tw/und-hani/su/8205/" target="_blank" rel="noopener">教育部臺灣台語常用詞辭典</a></li><li><a href="https://mso.gov.taipei/cp.aspx?n=B166D6A50A6D9E79" target="_blank" rel="noopener">臺北市殯葬管理處：祭祀供品釋疑</a></li><li><a href="https://www.tfunscroll.ntpc.gov.tw/TombSweepingFestival/ContentView?alias=Cht_O02&amp;id=802" target="_blank" rel="noopener">新北市清明服務網</a></li><li><a href="https://ianthro.ioe.sinica.edu.tw/wp-content/uploads/2018/05/etf025-001.pdf" target="_blank" rel="noopener">中研院民族所：金錢在華人文化與宗教中的觀念與儀式初探</a></li><li><a href="https://folk.tw/practices/ruocuo/" target="_blank" rel="noopener">神酷：入厝</a></li><li><a href="https://folk.tw/practices/sangli/" target="_blank" rel="noopener">神酷：傳統喪禮</a></li><li><a href="https://www.nownews.com/news/5627473" target="_blank" rel="noopener">NOWnews 保庇網：銀紙</a></li><li><a href="https://www.nownews.com/news/6362410" target="_blank" rel="noopener">NOWnews：初五迎財神拜法</a></li><li><a href="https://www.nownews.com/news/6814884" target="_blank" rel="noopener">NOWnews：拜媽祖供品</a></li><li><a href="https://supertaste.tvbs.com.tw/hot/353166" target="_blank" rel="noopener">TVBS：開工拜拜準備</a></li><li><a href="https://newtalk.tw/news/view/2022-05-16/755679" target="_blank" rel="noopener">新頭殼：金包里二媽回野柳媽祖洞</a></li><li><a href="https://udn.com/news/story/7268/9559983" target="_blank" rel="noopener">聯合新聞網：神農大帝聖誕</a></li><li><a href="https://tw.news.yahoo.com/tag/水仙尊王" target="_blank" rel="noopener">Yahoo 新聞：水仙尊王</a></li><li><a href="https://health.tvbs.com.tw/life/352227" target="_blank" rel="noopener">TVBS：拜土地公供品與金紙</a></li><li><a href="https://shopee.tw/blog/land-worship/" target="_blank" rel="noopener">蝦皮生活誌：拜土地公三色金</a></li><li><a href="https://travel.yam.com/article/136653" target="_blank" rel="noopener">蕃薯藤旅遊：拜財神供品</a></li><li><a href="https://health.tvbs.com.tw/nutrition/360367" target="_blank" rel="noopener">TVBS：財神廟參拜</a></li><li><a href="https://www.nownews.com/news/6786362" target="_blank" rel="noopener">NOWnews：拜月老步驟</a></li><li><a href="https://www.thenewslens.com/article/190536" target="_blank" rel="noopener">關鍵評論網：七夕拜月老供品</a></li><li><a href="https://www.thenewslens.com/article/147154" target="_blank" rel="noopener">關鍵評論網：紙錢整理</a></li></ol></details></div></footer>
 
-<script src="/assets/data.js?v=20261123a"></script>
-<script src="/assets/lunar.js?v=20261123a"></script>
-<script src="/assets/common.js?v=20261123a"></script>
+<script src="/assets/data.js?v=20261123b"></script>
+<script src="/assets/lunar.js?v=20261123b"></script>
+<script src="/assets/common.js?v=20261123b"></script>
 <script>
 (function(){
   const B = BAIBAI, L = Lunar, NAMES = '/mingcheng/';
